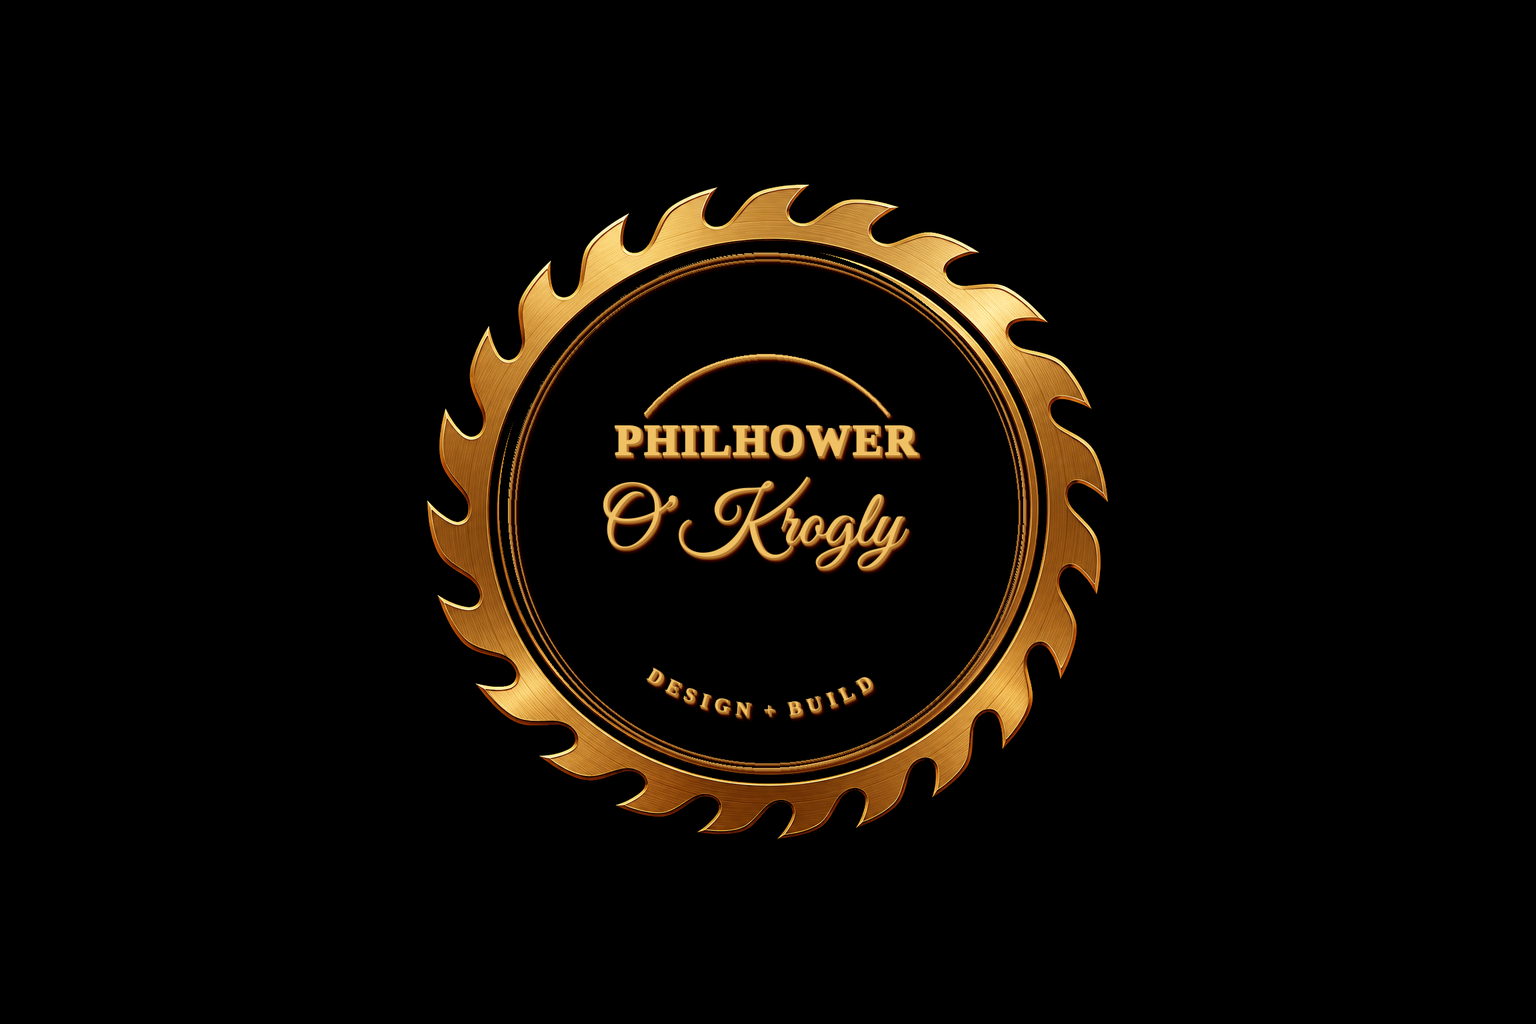
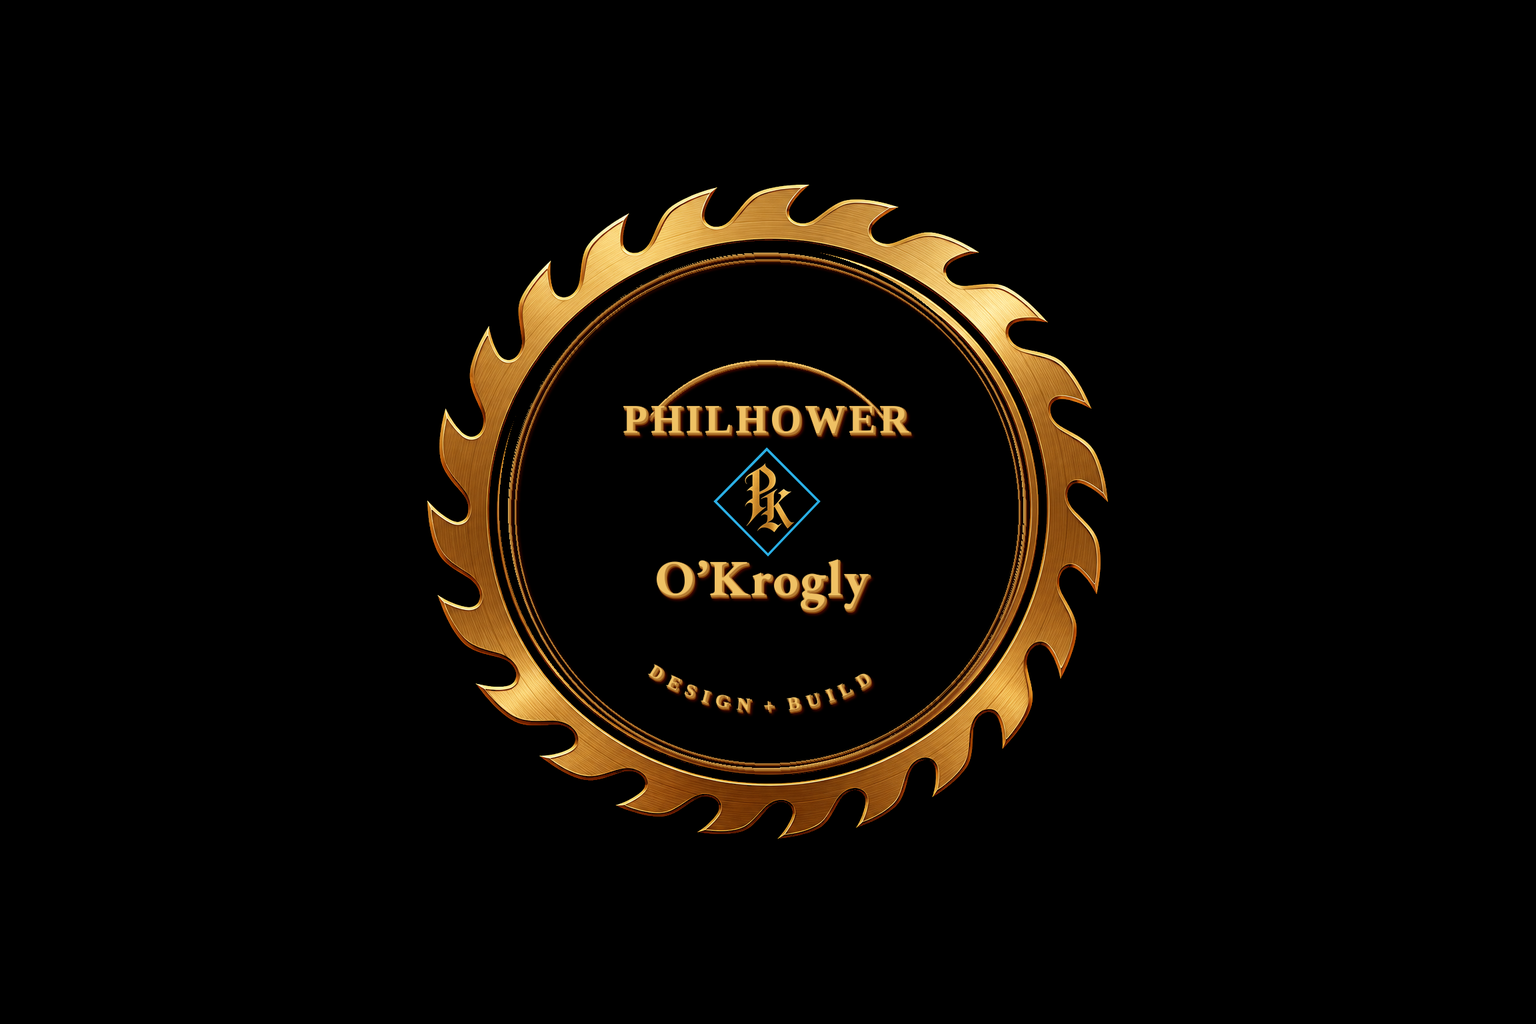
Redesign POK with Times, Garamond, and the cyan PK diamond.
PHILHOWER in modern Times New Roman, O’Krogly in EB Garamond, blue
diamond monogram centered on the Hills blade. Theme 1.0.25 / brands-print-18.

Changed region(s): [[0.375, 0.3438, 0.5938, 0.5938], [0.4062, 0.6562, 0.5312, 0.7188], [0.5312, 0.6562, 0.5938, 0.6875]]

diff --git a/dphilhower-studio-wp/preview/work/philhower-okrogly/index.html b/dphilhower-studio-wp/preview/work/philhower-okrogly/index.html
@@ -4,7 +4,7 @@
   <meta charset="utf-8">
   <meta name="viewport" content="width=device-width, initial-scale=1">
   <title>Philhower &amp; O’Krogly — D Philhower Studio</title>
-  <meta name="description" content="Philhower &amp; O’Krogly Design + Build by D Philhower Studio: Service The Hills twin — PHILHOWER, O’Krogly script, DESIGN + BUILD.">
+  <meta name="description" content="Philhower &amp; O’Krogly Design + Build by D Philhower Studio: Times New Roman, Garamond, and the cyan PK diamond on the Hills blade.">
   <link rel="icon" href="../../img/favicon.svg" type="image/svg+xml">
   <link rel="preconnect" href="https://fonts.googleapis.com">
   <link rel="preconnect" href="https://fonts.gstatic.com" crossorigin>
@@ -31,7 +31,7 @@
       <p>Design + Build</p>
     </header>
     <div class="case-hero">
-      <img src="../../img/pok-hero.png" alt="Philhower &amp; O’Krogly lockup matching Service The Hills: saw blade, PHILHOWER, script O’Krogly, DESIGN + BUILD" width="1536" height="1024">
+      <img src="../../img/pok-hero.png" alt="Philhower &amp; O’Krogly lockup: Hills blade, Times PHILHOWER, cyan PK diamond, Garamond O’Krogly, DESIGN + BUILD" width="1536" height="1024">
     </div>
     <article class="case-body">
       <ul class="case-meta">
@@ -41,7 +41,7 @@
         <li><strong>Place</strong><br>Northern New Jersey</li>
       </ul>
       <div class="entry-content">
-        <p>Same seal as Service The Hills: official bronze saw blade, double ring, top arc. PHILHOWER in caps serif. O’Krogly in script. DESIGN + BUILD on the bottom arc. Same metal, same hierarchy — different names.</p>
+        <p>Hills blade, double ring, top arc. PHILHOWER in modern Times New Roman. The cyan PK diamond at center. O’Krogly in Garamond. DESIGN + BUILD on the bottom arc — same face as the Times line.</p>
         <p>One lockup. Polo, van, yard, card, fridge. Black field so gold reads.</p>
       </div>
     </article>
@@ -56,7 +56,7 @@
         </figure>
         <figure>
           <img src="../../img/pok-print-shirt.png" alt="Black polo with the Philhower &amp; O’Krogly saw-blade lockup centered on the chest" width="1536" height="1024">
-          <figcaption><strong>Polo</strong> Center chest. Same Hills blade hierarchy: PHILHOWER, O’Krogly, DESIGN + BUILD.</figcaption>
+          <figcaption><strong>Polo</strong> Center chest. Times, cyan PK diamond, Garamond — one lockup.</figcaption>
         </figure>
         <figure>
           <img src="../../img/pok-print-van.png" alt="Matte black van with the Philhower &amp; O’Krogly saw-blade lockup on the side" width="1536" height="1024">
@@ -68,7 +68,7 @@
         </figure>
         <figure>
           <img src="../../img/pok-print-card.png" alt="Black business cards with the Philhower &amp; O’Krogly saw-blade lockup" width="1536" height="1024">
-          <figcaption><strong>Cards</strong> Black stock. Blade, PHILHOWER, O’Krogly, DESIGN + BUILD — same Hills hierarchy.</figcaption>
+          <figcaption><strong>Cards</strong> Black stock. Blade, Times, diamond, Garamond — same lockup as the shirt.</figcaption>
         </figure>
         <figure>
           <img src="../../img/pok-print-magnet.png" alt="Fridge magnet with the Philhower &amp; O’Krogly saw-blade lockup" width="1536" height="1024">

diff --git a/dphilhower-studio-wp/theme/dphilhower-studio/style.css b/dphilhower-studio-wp/theme/dphilhower-studio/style.css
@@ -4,7 +4,7 @@ Theme URI: https://dphilhower.com
 Author: D Philhower Studio
 Author URI: https://dphilhower.com
 Description: Custom graphic design studio theme for D Philhower Studio at dphilhower.com — portfolio, services, about, and project inquiries. Activate the theme to load demo pages and work samples.
-Version: 1.0.24
+Version: 1.0.25
 Requires at least: 6.4
 Tested up to: 6.8
 Requires PHP: 7.4

diff --git a/dphilhower-studio-wp/theme/dphilhower-studio/inc/brand-kits.php b/dphilhower-studio-wp/theme/dphilhower-studio/inc/brand-kits.php
@@ -289,7 +289,7 @@ function dps_brand_kits() {
 		'philhower-okrogly'        => array(
 			'label'  => __( 'Print system', 'dphilhower-studio' ),
 			'title'  => __( 'One lockup, five scales', 'dphilhower-studio' ),
-			'intro'  => __( 'Same seal as Service The Hills: official bronze blade, double ring, top arc. Caps serif PHILHOWER, script O’Krogly, DESIGN + BUILD on the bottom arc. Polo, van, yard, card, fridge — one lockup.', 'dphilhower-studio' ),
+			'intro'  => __( 'Hills blade, double ring, top arc. PHILHOWER in modern Times New Roman. Cyan PK diamond at center. O’Krogly in Garamond. DESIGN + BUILD on the bottom arc. Polo, van, yard, card, fridge — one lockup.', 'dphilhower-studio' ),
 			'pieces' => array(
 				array(
 					'file'    => 'pok-seal-hero.png',
@@ -301,7 +301,7 @@ function dps_brand_kits() {
 					'file'    => 'pok-print-shirt.png',
 					'alt'     => __( 'Black polo with the Philhower & O’Krogly saw-blade lockup centered on the chest', 'dphilhower-studio' ),
 					'heading' => __( 'Polo', 'dphilhower-studio' ),
-					'story'   => __( 'Center chest. Same Hills blade hierarchy: PHILHOWER, O’Krogly, DESIGN + BUILD.', 'dphilhower-studio' ),
+					'story'   => __( 'Center chest. Times, cyan PK diamond, Garamond — one lockup.', 'dphilhower-studio' ),
 				),
 				array(
 					'file'    => 'pok-print-van.png',
@@ -319,7 +319,7 @@ function dps_brand_kits() {
 					'file'    => 'pok-print-card.png',
 					'alt'     => __( 'Black business cards with the Philhower & O’Krogly saw-blade lockup', 'dphilhower-studio' ),
 					'heading' => __( 'Cards', 'dphilhower-studio' ),
-					'story'   => __( 'Black stock. Blade, PHILHOWER, O’Krogly, DESIGN + BUILD — same Hills hierarchy.', 'dphilhower-studio' ),
+					'story'   => __( 'Black stock. Blade, Times, diamond, Garamond — same lockup as the shirt.', 'dphilhower-studio' ),
 				),
 				array(
 					'file'    => 'pok-print-magnet.png',

diff --git a/dphilhower-studio-wp/theme/dphilhower-studio/inc/setup-content.php b/dphilhower-studio-wp/theme/dphilhower-studio/inc/setup-content.php
@@ -326,7 +326,7 @@ function dps_seed_demo_content( $force = false ) {
 			'services' => 'Identity · embroidery · vehicle · signage',
 			'year'     => '2025',
 			'location' => 'Northern New Jersey',
-			'content'  => '<p>Same seal as Service The Hills: official bronze saw blade, double ring, top arc. PHILHOWER in caps serif. O’Krogly in script. DESIGN + BUILD on the bottom arc. Same metal, same hierarchy — different names.</p><p>One lockup. Polo, van, yard, card, fridge. Black field so gold reads.</p>',
+			'content'  => '<p>Hills blade, double ring, top arc. PHILHOWER in modern Times New Roman. The cyan PK diamond at center. O’Krogly in Garamond. DESIGN + BUILD on the bottom arc — same face as the Times line.</p><p>One lockup. Polo, van, yard, card, fridge. Black field so gold reads. Blue is only the diamond.</p>',
 		),
 		array(
 			'slug'     => 'cafe-robust',
@@ -461,7 +461,7 @@ function dps_seed_demo_content( $force = false ) {
 	flush_rewrite_rules();
 
 	update_option( 'dps_demo_seeded', DPS_VERSION );
-	update_option( 'dps_images_version', 'brands-print-17' );
+	update_option( 'dps_images_version', 'brands-print-18' );
 	return true;
 }
 

diff --git a/dphilhower-studio-wp/theme/dphilhower-studio/functions.php b/dphilhower-studio-wp/theme/dphilhower-studio/functions.php
@@ -9,7 +9,7 @@ if ( ! defined( 'ABSPATH' ) ) {
 	exit;
 }
 
-define( 'DPS_VERSION', '1.0.24' );
+define( 'DPS_VERSION', '1.0.25' );
 define( 'DPS_DIR', get_template_directory() );
 define( 'DPS_URI', get_template_directory_uri() );
 
@@ -164,14 +164,14 @@ function dps_maybe_upgrade_images() {
 	if ( 'dphilhower-studio' !== get_stylesheet() ) {
 		return;
 	}
-	if ( get_option( 'dps_images_version' ) === 'brands-print-17' ) {
+	if ( get_option( 'dps_images_version' ) === 'brands-print-18' ) {
 		return;
 	}
 	if ( ! get_option( 'dps_demo_seeded' ) ) {
 		return;
 	}
 	dps_seed_demo_content( true );
-	update_option( 'dps_images_version', 'brands-print-17' );
+	update_option( 'dps_images_version', 'brands-print-18' );
 }
 
 /**
